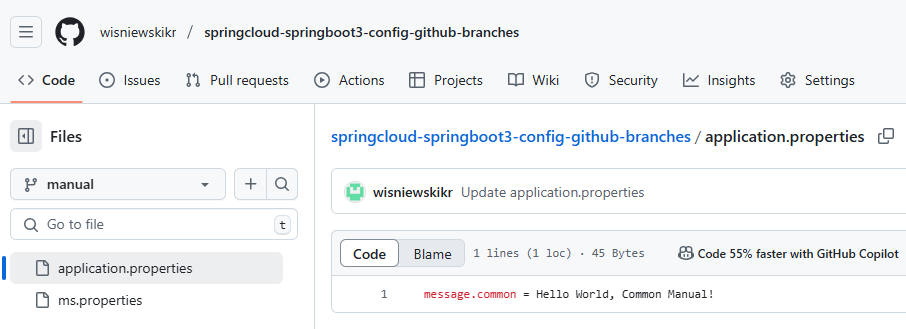
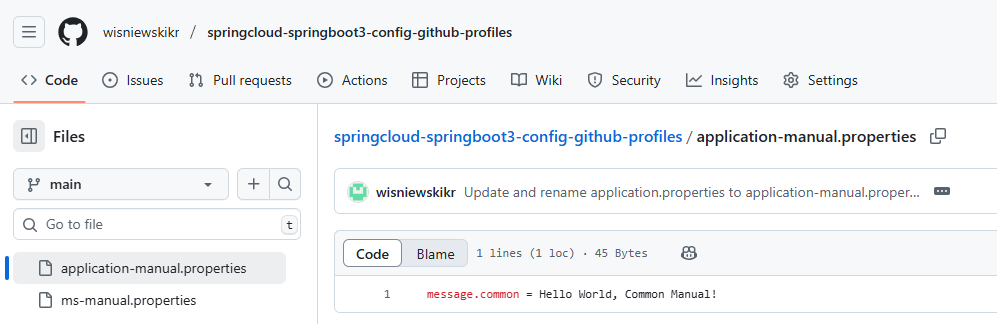
Update README.md and section Usage Manual

diff --git a/spring-cloud/config/springcloud-springboot3-config-github-profiles/README.md b/spring-cloud/config/springcloud-springboot3-config-github-profiles/README.md
@@ -33,7 +33,7 @@ DESCRIPTION
 
 ##### Goal
 The goal of this project is to present how to create **Config Server** which reads properties from **public github**
-repository from specific **branch** and connect it with microservice with usage **Java** programming language and **Spring Cloud** framework. 
+repository from specific **profile** and connect it with microservice with usage **Java** programming language and **Spring Cloud** framework. 
 
 Config service enables reading configuration properties from different sources like: github, file etc. In this
 case properties are read from public Github repository and sent to microservice. This microservice displays
@@ -95,8 +95,8 @@ USAGE MANUAL
 
 ##### Required steps:
 1. Create **Github repository** with **manual** branch with following files:
-   * File **application.properties** with properties: `message.common = Hello World, Common Manual!`
-   * File **ms.properties** with properties: `message.public = Hello World, Public Manual!` and `message.secret = Hello World, Secret Manual!`
+   * File **application-manual.properties** with properties: `message.common = Hello World, Common Manual!`
+   * File **ms-manual.properties** with properties: `message.public = Hello World, Public Manual!` and `message.secret = Hello World, Secret Manual!`
 1. In **Config** module update file **src/main/resources/application.properties** with property `spring.cloud.config.server.git.uri` which should contain URI to Github repository
 1. In a first command line tool **start CONFIG application** with `mvn -f ./springcloud-springboot3-config-github-profiles_CONFIG spring-boot:run`
 1. In a second command line tool **start MS application** with `mvn -f ./springcloud-springboot3-config-github-profiles_MS spring-boot:run`
@@ -108,7 +108,7 @@ USAGE MANUAL
     * Remove **Github repository**
 
 ##### Optional steps:
-1. Check properties of MS service with `http://localhost:8888/ms/default/manual`
+1. Check properties of MS service with `http://localhost:8888/ms/manual/main`
 
 
 USAGE DOCKER COMPOSE
@@ -138,7 +138,7 @@ then **proceed with steps below**.
    * Stop **Docker** tool
 
 ##### Optional steps:
-1. Check properties of MS service with `http://localhost:8888/ms/default/docker-compose`
+1. Check properties of MS service with `http://localhost:8888/ms/dockercompose/main`
 1. In a command line tool validate Docker Compose with `docker-compose config`
 1. In a command line tool check list of Docker images with `docker images`
 1. In a command line tool check list of all Docker containers with `docker ps -a`
@@ -182,7 +182,7 @@ USAGE KUBERNETES (KIND)
    * Stop **Docker** tool
 
 ##### Optional steps:
-1. Check properties of MS service with `http://localhost:8888/ms/default/kubernetes`
+1. Check properties of MS service with `http://localhost:8888/ms/kubernetes/main`
 1. In a command line tool build Docker MS image with `docker build -f springcloud-springboot3-config-github-profiles_MS/Dockerfile -t wisniewskikr/springcloud-springboot3-config-github-profiles_ms:0.0.1 ./springcloud-springboot3-config-github-profiles_MS`
 1. In a command line tool push Docker MS image to Docker Repository with `docker push wisniewskikr/springcloud-springboot3-config-github-profiles_ms:0.0.1`
 1. In a command line tool build Docker CONFIG image with `docker build -f springcloud-springboot3-config-github-profiles_CONFIG/Dockerfile -t wisniewskikr/springcloud-springboot3-config-github-profiles_config:0.0.1 ./springcloud-springboot3-config-github-profiles_CONFIG`
@@ -203,7 +203,6 @@ IMPLEMENTATION
 Implementation details:
 * In Config module update pom.xml file with `spring-cloud-config-server`
 * In Config module update application.properties file with `spring.cloud.config.server.git.uri`
-and `spring.cloud.config.server.git.default-label`
 * In Config module update ApplicationConfig class with `@EnableConfigServer`
 * In MS module update pom.xml file with `spring-cloud-starter-config`
-* In MS module update application.properties file with `spring.config.import`
+* In MS module update application.properties file with `spring.config.import` and `spring.profiles.active`
